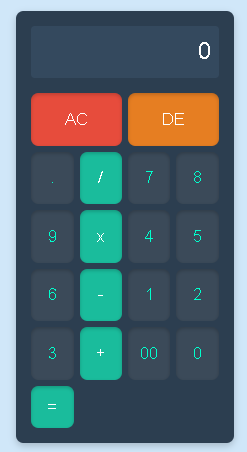
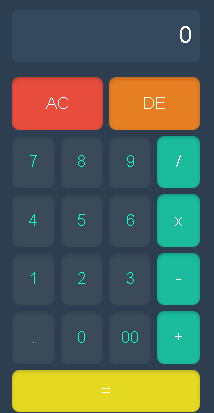
changed layout
changed layout

diff --git a/Code/index.html b/Code/index.html
@@ -12,27 +12,31 @@
         <div class="buttons">
             <button class="btn clear" data-value="C">AC</button>
             <button class="btn de" data-value="DE">DE</button>
-            <button class="btn" data-value=".">.</button>
-            <button class="btn operator" data-value="/">/</button>
-
+            
+            
             <button class="btn" data-value="7">7</button>
             <button class="btn" data-value="8">8</button>
             <button class="btn" data-value="9">9</button>
-            <button class="btn operator" data-value="*">x</button>
+            <button class="btn operator" data-value="/">/</button>
 
+            
             <button class="btn" data-value="4">4</button>
             <button class="btn" data-value="5">5</button>
             <button class="btn" data-value="6">6</button>
-            <button class="btn operator" data-value="-">-</button>
+            <button class="btn operator" data-value="*">x</button>
 
+            
             <button class="btn" data-value="1">1</button>
             <button class="btn" data-value="2">2</button>
             <button class="btn" data-value="3">3</button>
+            <button class="btn operator" data-value="-">-</button>
+
+            <button class="btn" data-value=".">.</button>
+            <button class="btn" data-value="0">0</button>
+            <button class="btn" data-value="00">00</button>
             <button class="btn operator" data-value="+">+</button>
 
-            <button class="btn" data-value="00">00</button>
-            <button class="btn" data-value="0">0</button>
-            <button class="btn operator" data-value="=">=</button>
+            <button class="btn equal" data-value="=" >=</button>
         </div>
     </div>
     <script src="script.js"></script>

diff --git a/Code/styles.css b/Code/styles.css
@@ -94,3 +94,10 @@ body {
     grid-row: span 2;
     height: 100%;
 }
+
+.equal {
+    grid-column: span 4;
+    background: #e6d922; /* Orange for delete */
+    color: white;
+    height: 100%;
+}
